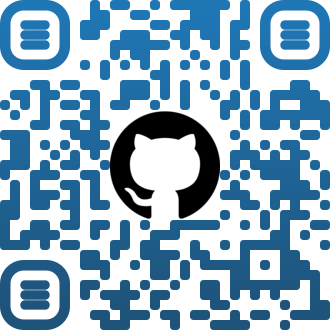
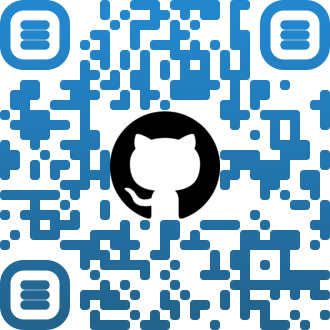
Updated QR
Not pointing to the "https://www.qrcode-monkey.com/" anymore.
Also added skeleton loaders to graphs.

diff --git a/index.html b/index.html
@@ -27,9 +27,17 @@
             });
         });
     </script>
+    <script>
+        function hideSkeletonLoader(iframe) {
+            const loader = iframe.previousElementSibling;
+            if (loader && loader.classList.contains('skeleton-loader')) {
+                loader.style.display = 'none';
+            }
+        }
+    </script>
 </head>
 <body>
-    <div class="a4 scale-content">
+    <div class="a4">
         <div class="header">
             <h1>Kristo Karl Aedma</h1>
             <div style="display: flex; align-items: flex-end;">
@@ -60,10 +68,12 @@
             </div>
             <div class="graph-flipper">
                 <div class="graph-front">
-                    <iframe src="timeline.html"></iframe>
+                    <div class="skeleton-loader"></div>
+                    <iframe src="timeline.html" onload="hideSkeletonLoader(this)"></iframe>
                 </div>
                 <div class="graph-back">
-                    <iframe src="timeline2.html"></iframe>
+                    <div class="skeleton-loader"></div>
+                    <iframe src="timeline2.html" onload="hideSkeletonLoader(this)"></iframe>
                 </div>
             </div>
         </div>
@@ -72,6 +82,7 @@
             <div class="half-section">
                 <h2>Skills & Tools</h2>
                 <div class="graph-single zoom-container">
+                    <div class="skeleton-loader"></div>
                     <img src="wordcloud.png" alt="Word Cloud" class="zoom-image">
                 </div>
             </div>
@@ -108,7 +119,7 @@
         </div>
         <div class="note-section" style="height: 100%;">
             <div class="note-image">
-                <a href="https://www.qrcode-monkey.com/" target="_blank">
+                <a href="https://kito323.github.io/CV-HTML/" target="_blank">
                     <img src="qr-code.png" alt="Note Image">
                 </a>
             </div>

diff --git a/style.css b/style.css
@@ -109,12 +109,33 @@ h2 {
     transform: rotateY(180deg);
 }
 
+.skeleton-loader {
+    width: 100%;
+    height: 100%;
+    background: linear-gradient(90deg, #f0f0f0 25%, #e0e0e0 50%, #f0f0f0 75%);
+    background-size: 200% 100%;
+    animation: loading 1.5s infinite;
+    position: absolute;
+    top: 0;
+    left: 0;
+}
+
+@keyframes loading {
+    0% {
+        background-position: 200% 0;
+    }
+    100% {
+        background-position: -200% 0;
+    }
+}
+
 .graph-front, .graph-back, .recommendation-front, .recommendation-back {
     position: absolute;
     backface-visibility: hidden;
 }
 
 .graph-front, .graph-back {
+    /* position: relative; */
     width: 100%;
     height: 100%;
 }
